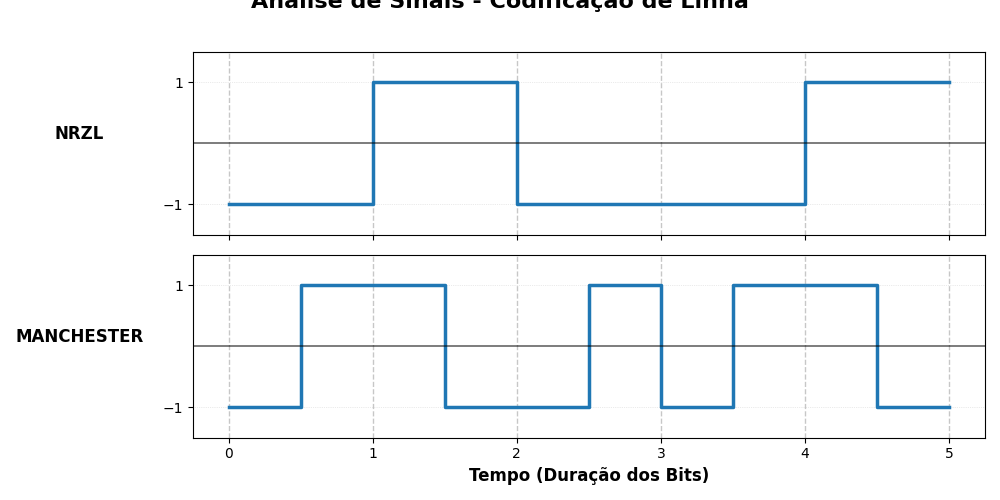
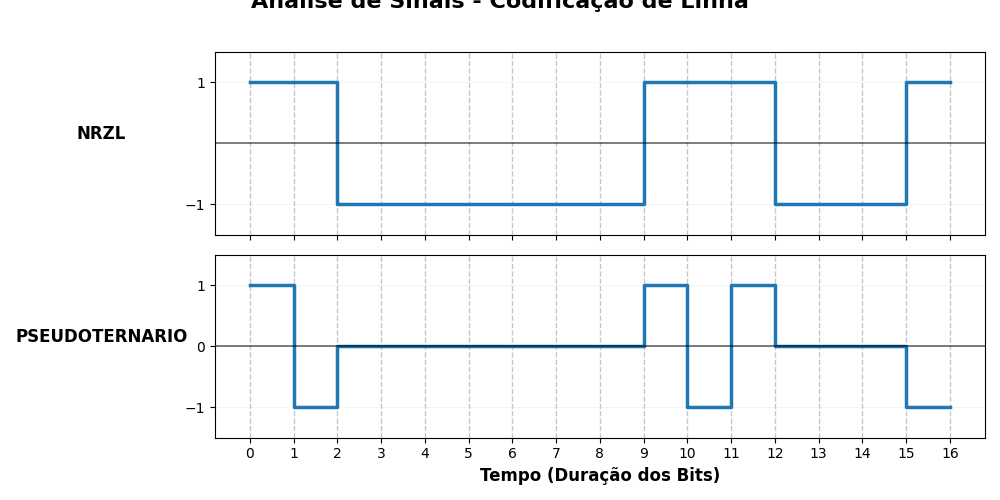
interfáce web implementada

diff --git a/t1/static/index1.js b/t1/static/index1.js
@@ -1,33 +1,119 @@
-const data = {
-    dado_digital: [1, 0, 1, 1, 0, 0],
-    metodos_de_codificacao: ["NRZL", 
-                             "NRZI",
-                             "AMI",
-                             "PSEUDOTERNARIO",
-                             "MANCHESTER",
-                             "MANCHESTER DIFERENCIAL",
-                             "2B1Q",
-                             "DELAY MODULATION",
-                             "MLT-3"
-                            ]
-};
+// Lista com todos os métodos disponíveis no trabalho
+const TODOS_METODOS = [
+    "NRZL", 
+    "NRZI",
+    "AMI",
+    "PSEUDOTERNARIO",
+    "MANCHESTER",
+    "M. DIFERENCIAL",
+    "2B1Q",
+    "DELAY MODULATION",
+    "MLT-3"
+];
 
-async function codificacaoDeLinha(dadoDigital) {
+// Inicializa interface
+function inicializarInterface() {
+    const container = document.getElementById("container-metodos");
+    
+    TODOS_METODOS.forEach(metodo => {
+        const div = document.createElement("div");
+        div.className = "flex items-center space-x-3";
+        
+        div.innerHTML = `
+            <input type="checkbox" value="${metodo}" class="checkbox checkbox-primary metodo-checkbox border-gray-500" />
+            <span class="text-gray-300 cursor-pointer select-none">${metodo}</span>
+        `;
+        
+        // Permite clicar no texto para marcar o checkbox
+        div.querySelector('span').addEventListener('click', () => {
+            const checkbox = div.querySelector('input');
+            checkbox.checked = !checkbox.checked;
+        });
+
+        container.appendChild(div);
+    });
+}
+
+// Fetch do gráfico
+async function codificacaoDeLinha(payload) {
     const response = await fetch("/plot", {
         method: "POST",
         headers: {"Content-Type": "application/json"},
-        body: JSON.stringify(data)
-    })
+        body: JSON.stringify(payload)
+    });
     
     if (!response.ok) {
-        throw new Error('Resposta não OK');
+        throw new Error('Erro na resposta do servidor.');
     }
 
-    // retorna .blob() para poder passar a imagem para uma variável
     return await response.blob();
 }
 
-let grafico = await codificacaoDeLinha([1, 0, 1, 1, 0]);
-const urlImagem = URL.createObjectURL(grafico);
-document.getElementById("resultado-grafico").src = urlImagem;
+// "Gerar Gráfico" callback
+document.getElementById("btn-gerar").addEventListener("click", async () => {
+    // Captura os bits e valida a entrada (transforma em array de inteiros)
+    const textoBits = document.getElementById("input-bits").value.trim();
+    const dadoDigital = textoBits.split("").map(Number);
 
+    // Verifica se há algo que não seja 0 ou 1
+    if (dadoDigital.some(bit => bit !== 0 && bit !== 1) || dadoDigital.length === 0) {
+        alert("Por favor, insira uma sequência válida contendo apenas 0s e 1s.");
+        return;
+    }
+
+    // Captura os métodos selecionados
+    const checkboxes = document.querySelectorAll('.metodo-checkbox:checked');
+    const metodosSelecionados = Array.from(checkboxes).map(cb => cb.value);
+
+    if (metodosSelecionados.length === 0) {
+        alert("Por favor, selecione pelo menos um método de codificação de linha para visualização.");
+        return;
+    }
+
+    // Monta o objeto com os dados para o backend
+    const dataToSend = {
+        dado_digital: dadoDigital,
+        metodos_de_codificacao: metodosSelecionados
+    };
+
+    // Controle de UI (Loading e Imagem)
+    const imgElement = document.getElementById("resultado-grafico");
+    const loadingElement = document.getElementById("loading");
+    
+    imgElement.classList.add("hidden");
+    loadingElement.classList.remove("hidden");
+
+    try {
+        // Envia a requisição
+        const graficoBlob = await codificacaoDeLinha(dataToSend);
+        
+        // Exibe a imagem
+        const urlImagem = URL.createObjectURL(graficoBlob);
+        imgElement.src = urlImagem;
+        
+        loadingElement.classList.add("hidden");
+        imgElement.classList.remove("hidden");
+        
+    } catch (error) {
+        console.error(error);
+        alert("Ocorreu um erro ao gerar o gráfico. Verifique o console ou a comunicação com o servidor.");
+        loadingElement.classList.add("hidden");
+    }
+});
+
+// "Aleatório" callback
+document.getElementById("btn-aleatorio").addEventListener("click", () => {
+    let sequenciaAleatoria = "";
+    
+    // Gera 16 números (0 ou 1) aleatoriamente
+    for (let i = 0; i < 16; i++) {
+        const bit = Math.floor(Math.random() * 2);
+        sequenciaAleatoria += bit;
+    }
+    
+    // Define o valor gerado no campo de texto
+    document.getElementById("input-bits").value = sequenciaAleatoria;
+});
+
+// Executa a inicialização ao carregar o script
+inicializarInterface();

diff --git a/t1/templates/index.html b/t1/templates/index.html
@@ -1,18 +1,69 @@
-<html>
+<!DOCTYPE html>
+<html lang="pt-BR">
+<head>
+    <meta charset="UTF-8">
+    <meta name="viewport" content="width=device-width, initial-scale=1.0">
+    <title>Comunicação de Dados - Códigos de Linha</title>
+    <!-- Tailwind CSS -->
+    <script src="https://cdn.jsdelivr.net/npm/@tailwindcss/browser@4"></script>
+    <!-- DaisyUI -->
+    <link href="https://cdn.jsdelivr.net/npm/daisyui@5" rel="stylesheet" type="text/css" />
+</head>
 
-    <head>
-        <title>Comunicação de Dados</title>
-        <script src="https://cdn.jsdelivr.net/npm/@tailwindcss/browser@4"></script>
-    </head>
-
-    <body class="bg-gray-800 text-white">
-        <h1 class="text-2xl">Comunicação de Dados</h1>
+<body class="bg-gray-800 text-gray-200 min-h-screen p-6">
+    <div class="max-w-4xl mx-auto">
         
-        <div>
-            <img id="resultado-grafico" alt="Gráfico de codificação de linha">
+        <h1 class="text-3xl font-bold text-center mb-8 text-white">Visualizador de Códigos de Linha</h1>
+        
+        <!-- Painel de Configurações -->
+        <div class="card bg-gray-900 shadow-xl mb-8 border border-gray-700">
+            <div class="card-body">
+                <h2 class="card-title text-xl mb-4 text-white">Configurações do Sinal</h2>
+                
+                <!-- Entrada da Sequência de Bits -->
+                <div class="form-control w-full mb-6">
+                    <label class="label">
+                        <span class="label-text text-gray-300 font-semibold">Sequência de Bits (ex: 101100)</span>
+                    </label>
+                    <div class="flex gap-2">
+                        <input type="text" id="input-bits" placeholder="Digite apenas 0s e 1s" class="input input-bordered w-full bg-gray-800 text-white" value="101100" />
+                        <!-- Novo botão de sequência aleatória -->
+                        <button id="btn-aleatorio" class="btn btn-secondary whitespace-nowrap">Aleatória</button>
+                    </div>
+                </div>
+
+                <!-- Seleção dos Códigos de Linha -->
+                <div class="form-control w-full mb-6">
+                    <label class="label">
+                        <span class="label-text text-gray-300 font-semibold">Selecione os Códigos para Comparação</span>
+                    </label>
+                    
+                    <!-- Os checkboxes serão injetados aqui pelo JavaScript -->
+                    <div id="container-metodos" class="grid grid-cols-1 sm:grid-cols-2 md:grid-cols-3 gap-4 mt-2">
+                    </div>
+                </div>
+
+                <!-- Botão de Ação -->
+                <div class="card-actions justify-end mt-4">
+                    <button id="btn-gerar" class="btn btn-primary">Gerar Gráfico</button>
+                </div>
+            </div>
         </div>
 
-        <script type="module" src="{{ url_for('static', path='/index1.js') }}"></script>
-    </body>
+        <!-- Área de Exibição do Gráfico -->
+        <div class="card bg-gray-900 shadow-xl border border-gray-700">
+            <div class="card-body items-center">
+                <h2 class="card-title text-white mb-4">Gráfico</h2>
+                
+                <div id="loading" class="hidden loading loading-spinner loading-lg text-primary mb-4"></div>
+                
+                <img id="resultado-grafico" alt="O gráfico será exibido aqui" class="max-w-full rounded-lg bg-white hidden shadow-md">
+            </div>
+        </div>
 
+    </div>
+
+    <!-- Script principal -->
+    <script type="module" src="{{ url_for('static', path='/index1.js') }}"></script>
+</body>
 </html>

diff --git a/t1/main.py b/t1/main.py
@@ -47,7 +47,7 @@ def plot(dado_digital: list[int] = Body(), metodos_de_codificacao: list[str] = B
                 codigos_de_linha[metodo] = pseudoternario(dado_digital)
             case "MANCHESTER":
                 codigos_de_linha[metodo] = manchester(dado_digital)
-            case "MANCHESTER DIFERENCIAL":
+            case "M. DIFERENCIAL":
                 codigos_de_linha[metodo] = manchester_diferencial(dado_digital)
             case "2B1Q":
                 codigos_de_linha[metodo] = cod_2B1Q(dado_digital)
